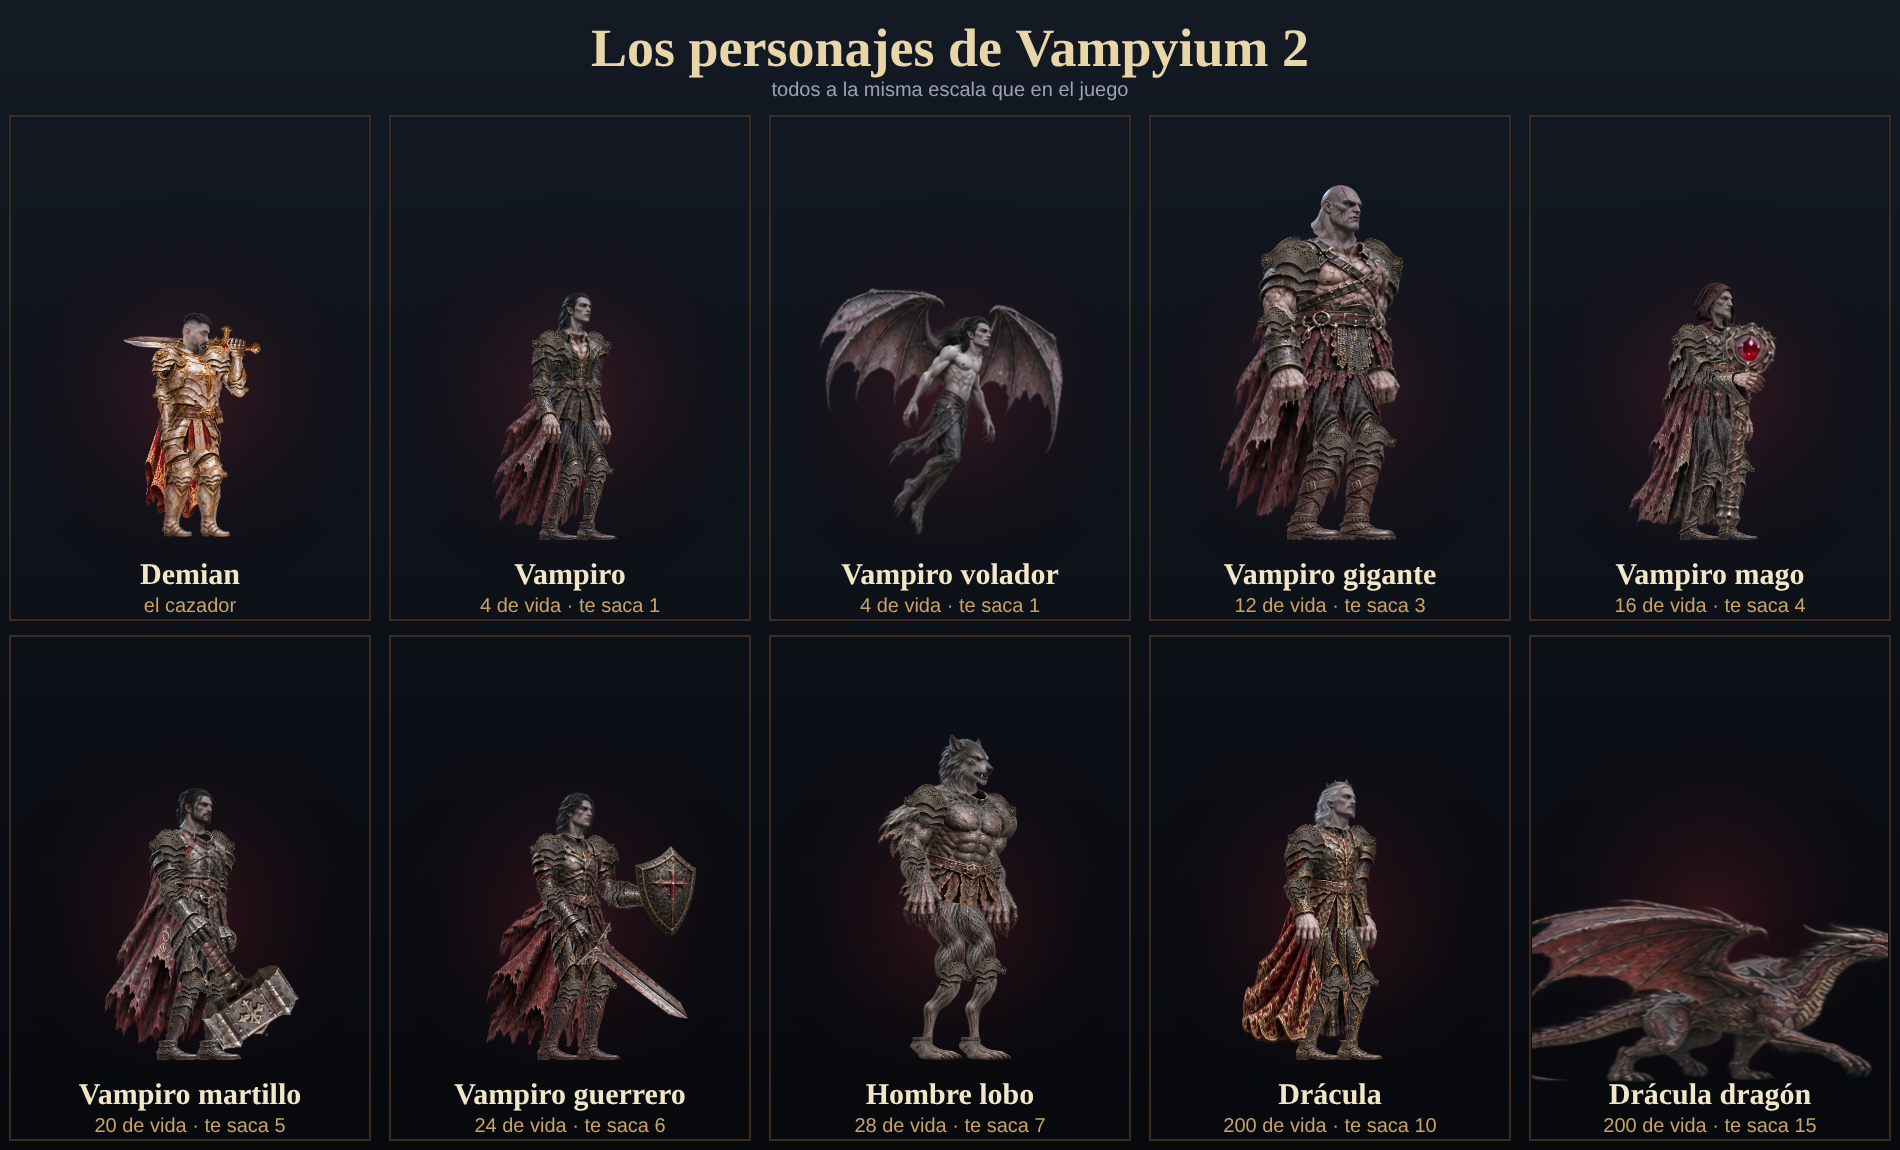
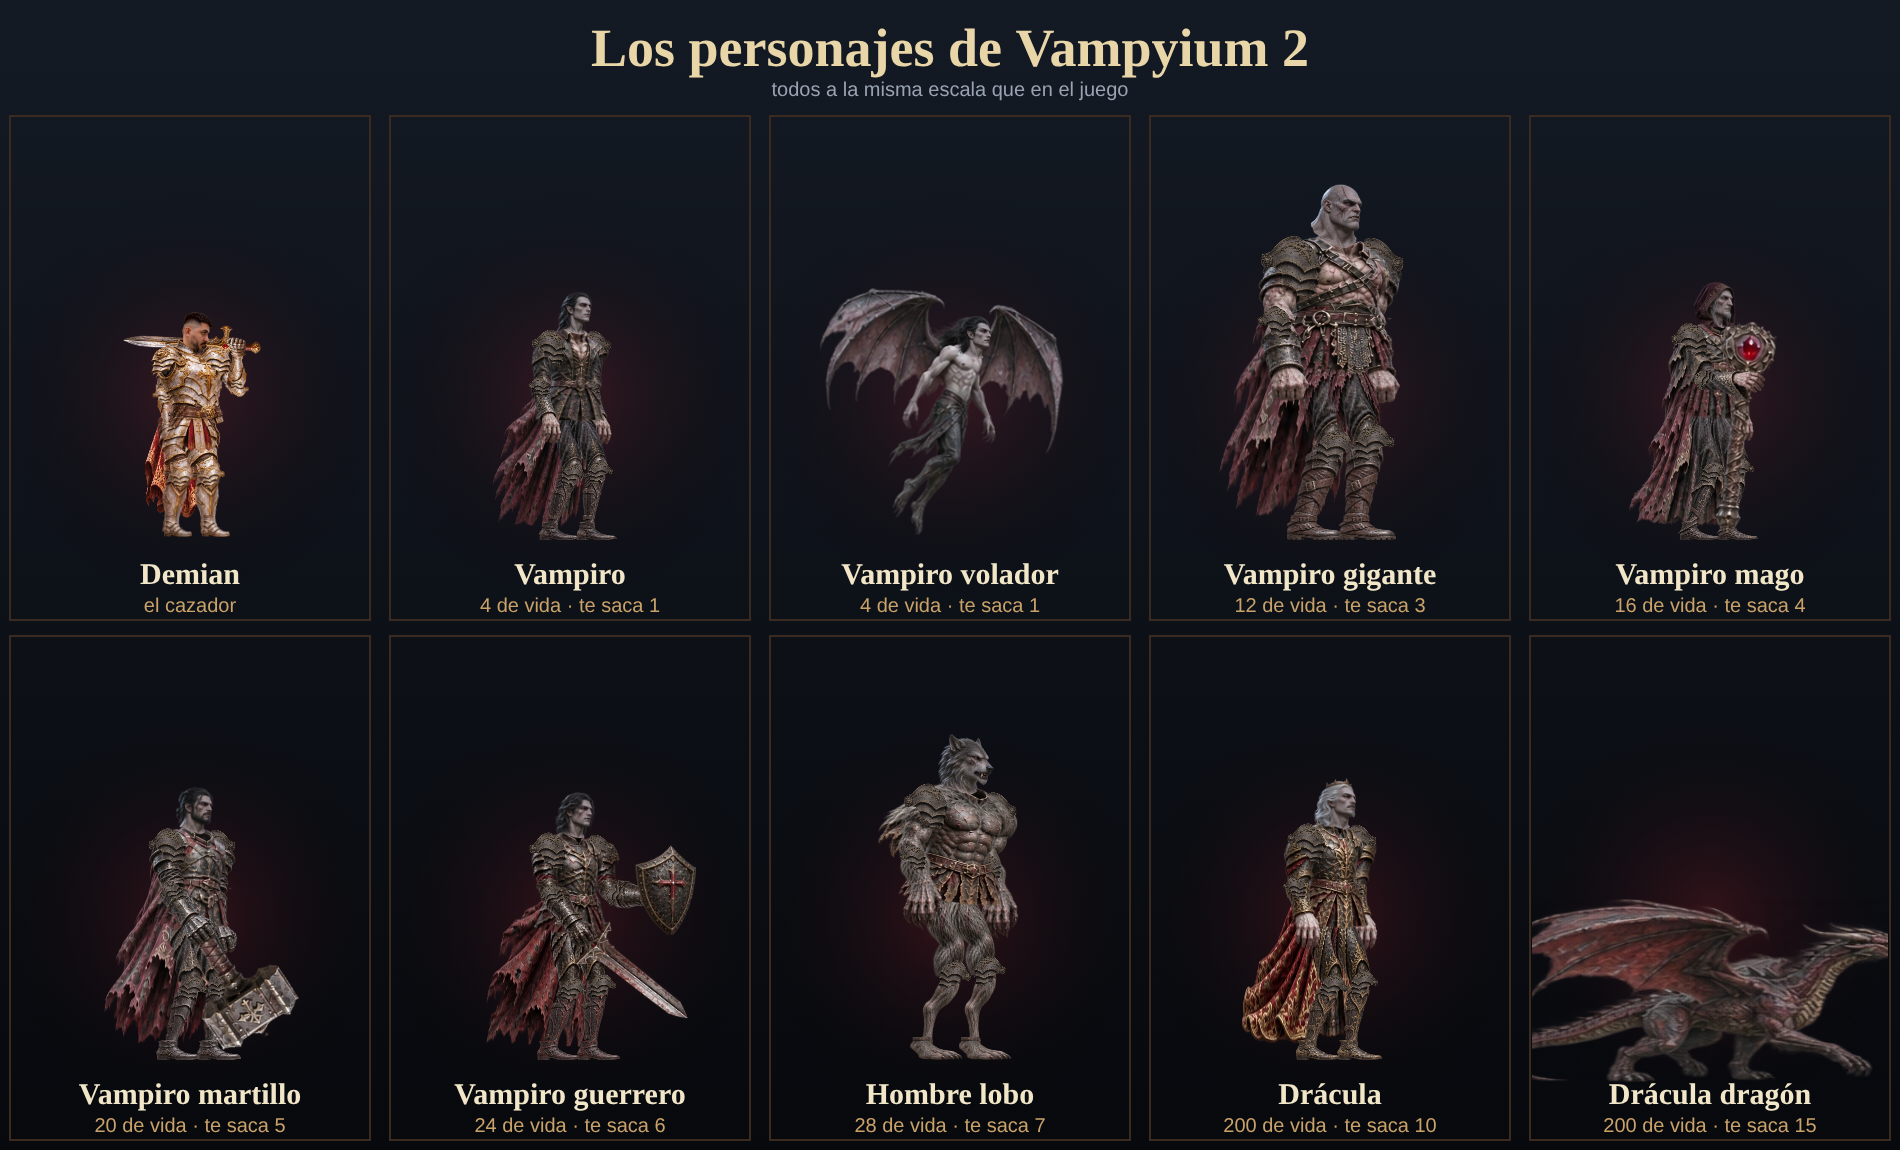
Vampyium 2: parados sin mover las rodillas, sin temblores, saltos mirando adelante y cara de Demian pintada
- Parados: la cadera queda fija (antes respiraba con la cadera y las rodillas iban y venían)
- Vampiros: darse vuelta lleva un instante y cerca del cazador mantienen el lado (no tiemblan); el dibujo no alterna parado/caminando a cada cuadro
- En el aire los vampiros miran siempre hacia donde saltan
- Cara de Demian con el color y el contraste del arte pintado del juego

Claude-Session: https://claude.ai/code/session_01WPvz5PaYJXGqapsEakQuyK

diff --git a/src/features/games/vampyium2.ts b/src/features/games/vampyium2.ts
@@ -128,6 +128,8 @@ export const BODY = Object.fromEntries(Object.entries(BODY0).map(([k, b]) => [k,
 const SPECIALS: VampKind[] = ['giant', 'mage', 'hammer', 'warrior', 'wolf'];
 // Qué vampiros salen en cada nivel: 1 normales y voladores; 2 + gigante; 3 + mago; 4 + martillo; 5 + guerrero; 6 + hombre lobo;
 // 7 a 9 todos (con el hombre lobo); 10 solo Drácula.
+// Darse vuelta lleva un instante: así no cambia de lado varias veces por segundo (se veía como un temblor).
+function turn(v: Vamp, to: 1 | -1) { if (to !== v.face && (v.turnT ?? 0) <= 0) { v.face = to; v.turnT = 0.28; } }
 export function rosterOf(level: number): VampKind[] {
   if (level >= 10) return ['dracula'];
   return ['walker', 'flyer', ...SPECIALS.slice(0, level >= 7 ? 5 : level - 1)]; // (7 a 9: todos, con el hombre lobo)
@@ -142,6 +144,8 @@ export interface Vamp {
   // los fuertes aguantan varios golpes (flash: el destello blanco del golpe)
   hurtT?: number; // golpeado por una trampa: sangra y sale despedido, pero no muere
   landT?: number;
+  turnT?: number; // (un instante después de darse vuelta, no se vuelve a dar vuelta)
+  walking?: boolean; // se dibuja caminando de perfil (con margen: no alterna parado/caminando a cada cuadro)
   special?: number; // Drácula y el dragón: cuenta para el próximo ataque especial
   frozen?: number; chill?: number; // congelado por la armadura de hielo (se rompe cuando llega a 0); chill: el frío en Drácula y el dragón
   nav?: Nav; stuckT?: number; bestD?: number; unstuck?: number; waitT?: number; braveT?: number; // cómo se mueve por el nivel (ver navigate)
@@ -771,7 +775,7 @@ function updateWalker(g: Game, v: Vamp, dt: number) {
     }
     if (v.t >= atk.dur) { v.state = 'walk'; v.cool = atk.rest + r() * 0.5; }
   } else if (v.state === 'cast') { // el mago levanta el báculo y tira una bola de fuego; Drácula larga murciélagos
-    v.vx *= Math.max(0, 1 - dt * 10); v.t += dt; v.face = dx >= 0 ? 1 : -1;
+    v.vx *= Math.max(0, 1 - dt * 10); v.t += dt; if (Math.abs(dx) > 0.45) turn(v, dx >= 0 ? 1 : -1);
     // El mago deja el báculo quieto y APUNTA con la otra mano a Demian: la bola sale de esa mano.
     const k = MAGE_HAND.k * BODY.mage.k;
     if (v.kind === 'mage') v.aim = Math.max(-0.9, Math.min(0.9, Math.atan2(p.y + 1 - (v.y + MAGE_HAND.sy * k), Math.abs(dx) || 0.01)));
@@ -782,27 +786,31 @@ function updateWalker(g: Game, v: Vamp, dt: number) {
     }
     if (v.t >= 0.95) { v.state = 'walk'; v.cool = (v.kind === 'mage' ? 2.4 : 1) + r() * 0.8; }
   } else if (v.state === 'zap') { // Drácula levanta los brazos y llama tres rayos rojos: donde está el cazador y a los costados
-    v.vx *= Math.max(0, 1 - dt * 10); v.t += dt; v.face = dx >= 0 ? 1 : -1;
+    v.vx *= Math.max(0, 1 - dt * 10); v.t += dt; if (Math.abs(dx) > 0.45) turn(v, dx >= 0 ? 1 : -1);
     if (v.t >= 0.4 && !v.hit) {
       v.hit = true;
       [0, -2.3, 2.3].forEach((o, i) => { const [x, q] = standAt(Math.max(0.8, Math.min(W - 0.8, p.x + o + p.vx * 0.25)), p.y); g.zaps.push({ x, y: q.y, t: -i * 0.22 }); });
     }
     if (v.t >= 1.1) { v.state = 'walk'; v.cool = 0.8 + r() * 0.5; }
   } else if (v.state === 'leap') { // el hombre lobo salta encima del cazador
-    v.t += dt;
+    v.t += dt; if (Math.abs(v.vx) > 0.6) v.face = Math.sign(v.vx) as 1 | -1; // mira hacia donde salta
     const [x1, x2, y1, y2] = vampBox(v);
     if (!v.hit && x2 > p.x - 0.3 && x1 < p.x + 0.3 && y1 < p.y + PLAYER_H && y2 > p.y) { v.hit = true; hurt(g, v.x, DAMAGE.wolf); }
     if (v.onGround && v.t > 0.2) { v.state = 'walk'; v.cool = 0.5 + r() * 0.4; v.vx *= 0.3; }
   } else {
     // Hacia dónde ir: si el cazador está en otro piso, el plan dice a qué plataforma saltar (o bajar) y desde dónde.
     const nav = navigate(g, v);
-    let dir = nav.kind === 'same' ? (Math.sign(dx) || v.face) : (Math.sign(nav.tx - v.x) || v.face);
+    // Justo encima o debajo del cazador no cambia de lado a cada cuadro (eso era el temblor): mantiene hacia dónde mira.
+    const close = nav.kind === 'same' && Math.abs(dx) < 0.45;
+    let dir = nav.kind === 'same' ? (close ? v.face : Math.sign(dx) || v.face) : (Math.sign(nav.tx - v.x) || v.face);
     if (scared) dir = -Math.sign(dx) || 1; // el ajo: se escapa
     // el mago se queda lejos (a 5 o 6 metros) para tirar sus bolas de fuego
     let want = 1;
     if (v.kind === 'mage' && !scared && nav.kind === 'same') { const d = Math.abs(dx); want = d < 4.2 ? -1 : d < 6.5 ? 0 : 1; }
     if (nav.kind !== 'same' && !scared && Math.abs(nav.tx - v.x) < 0.3) want = 0; // llegó al lugar del salto
-    v.face = (nav.kind === 'same' || scared ? (scared ? dir : Math.sign(dx) || v.face) : dir) as 1 | -1;
+    if (close && !scared) want = 0;
+    if (v.onGround) turn(v, dir as 1 | -1);
+    else if (Math.abs(v.vx) > 0.6) v.face = Math.sign(v.vx) as 1 | -1; // en el aire mira siempre hacia donde salta
     let target = dir * v.speed * (scared ? 1.3 : 1) * want;
     if (v.onGround) {
       // Las trampas: mira un poco adelante; si va a lastimarlo, las salta (las bajas) o espera a que pasen.
@@ -822,7 +830,7 @@ function updateWalker(g: Game, v: Vamp, dt: number) {
       } else v.waitT = 0;
       if (v.onGround) {
         v.vx += (target - v.vx) * Math.min(1, dt * 8);
-        if (Math.abs(v.vx) > 1 && Math.sign(v.vx) !== v.face) v.face = Math.sign(v.vx) as 1 | -1; // si se aleja, se da vuelta y camina para ese lado (no camina para atrás)
+        if (Math.abs(v.vx) > 1 && Math.sign(v.vx) !== v.face) turn(v, Math.sign(v.vx) as 1 | -1); // si se aleja, se da vuelta y camina para ese lado (no camina para atrás)
         v.walkT += dt * v.vx * v.face; // (si retrocede un poquito, los pasos también van para atrás: los pies no patinan)
         const s = v.surface, mdir = Math.sign(v.vx) || dir, ahead = v.x + mdir * 0.7;
         // ¿Se termina el piso adelante? Si el plan es cruzar el hueco, salta; si no, espera en el borde (nunca se cae al vacío).
@@ -866,7 +874,8 @@ function updateWalker(g: Game, v: Vamp, dt: number) {
   }
   const was = v.onGround;
   moveBody(v, dt, VAMP_W / 2, -1.2, W + 1.2);
-  v.landT = Math.max(0, (v.landT ?? 0) - dt);
+  v.landT = Math.max(0, (v.landT ?? 0) - dt); v.turnT = Math.max(0, (v.turnT ?? 0) - dt);
+  v.walking = v.onGround && Math.abs(v.vx) > (v.walking ? 0.15 : 0.7);
   if (!was && v.onGround) { v.walkT = 0; v.landT = .14; }
   // Si cae en un hueco, salta y sale (saltan bien: nunca se caen al vacío).
   if (v.y < GROUND_Y - 0.9 && v.vy < 0) {

diff --git a/src/features/games/vampyium2Chars.ts b/src/features/games/vampyium2Chars.ts
@@ -54,14 +54,14 @@ function hunterPose(p: Player, t: number, held: Weapon): Pose {
   const shoulderSword = held === 'sword' && at < 0;
   if ((p.jumpPrep ?? 0) > 0) {
     const k = Math.sin((1 - (p.jumpPrep ?? 0) / .09) * Math.PI / 2);
-    if (shoulderSword) return { ...demianSwordPose({ ...p, vx: 0 }, t), feet: undefined, bob: 0,
+    if (shoulderSword) return { ...demianSwordPose({ ...p, vx: 0 }), feet: undefined, bob: 0,
       lean: .06 + k * .10, crouch: .10 + k * .44,
       arms: [[-.12 - k * .35, .22 + k * .2], [.70, 2.50]] };
     return { bob: 0, lean: .12 + k * .1, crouch: .12 + k * .58, head: -.06, legs: [[-.4, .9], [.45, 1]], arms: [[-.3 - k * .4, .65], [.4, 1.5]], blade: 1.05 };
   }
   if (!p.onGround && (p.takeoffT ?? 0) > 0 && at < 0) {
     const k = 1 - (p.takeoffT ?? 0) / .12;
-    if (shoulderSword) return { ...demianSwordPose(p, t), feet: undefined, bob: 0,
+    if (shoulderSword) return { ...demianSwordPose(p), feet: undefined, bob: 0,
       hipOffset: [0, 0], lean: .12 - k * .04,
       legs: [[-.12 - k * .16, .12 + k * .65], [.14 + k * .28, .12 + k * .9]],
       arms: [[-.32 + k * .58, .40], [.70, 2.50]] };
@@ -70,12 +70,12 @@ function hunterPose(p: Player, t: number, held: Weapon): Pose {
   if (p.hurtT > 0) { const w = t * 30; return { bob: 0, lean: -0.35 + s(w) * 0.06, crouch: 0.1, head: -0.3, legs: [[-0.45, 0.5], [0.25, 0.7]], arms: [[-0.6, 0.9], [-0.9, 0.8]], blade: 0.6 }; }
   // C (turn) and V (thrust): the sword stays out horizontally, in a wide, low stance, with real bone lengths.
   if (p.special && (p.special.kind === 'whirl' || p.special.kind === 'dash') && held === 'sword') {
-    const thrust = demianSwordPose({ ...p, vx: 0, onGround: true, attackT: .12 }, t);
+    const thrust = demianSwordPose({ ...p, vx: 0, onGround: true, attackT: .12 });
     return p.special.kind === 'dash'
       ? { ...thrust, lean: .34, hipOffset: [.16, .16], feet: [[-.62, -.06], [.5, -.06]] }
       : { ...thrust, lean: .05, hipOffset: [0, .1], feet: [[-.4, -.06], [.36, -.06]] };
   }
-  if (p.onGround && !p.special && (at >= 0 ? p.attackWeapon === 'sword' : held === 'sword')) return demianSwordPose(p, t);
+  if (p.onGround && !p.special && (at >= 0 ? p.attackWeapon === 'sword' : held === 'sword')) return demianSwordPose(p);
   if (at >= 0) {
     if (AIM_W.includes(p.attackWeapon)) { // el disparo: retroceso
       const k = Math.max(0, 1 - at / 0.2);
@@ -97,7 +97,7 @@ function hunterPose(p: Player, t: number, held: Weapon): Pose {
   if (!p.onGround) {
     if (shoulderSword) {
       const tuck = Math.max(0, Math.min(1, (p.vy + 5) / 12));
-      return { ...demianSwordPose(p, t), feet: undefined, hipOffset: [0, 0], bob: 0,
+      return { ...demianSwordPose(p), feet: undefined, hipOffset: [0, 0], bob: 0,
         lean: .06, legs: [[-.20, .22 + tuck * .55], [.22 + tuck * .20, .28 + tuck * .72]],
         arms: [[.24 - tuck * .16, .35], [.70, 2.50]] };
     }
@@ -120,7 +120,8 @@ function hunterPose(p: Player, t: number, held: Weapon): Pose {
       legs, arms: armsFor([walkingArm(g, 0, .34, .32), walkingArm(g, 1, .34, .32)]), blade: bladeFor(1.45 - 0.45 * k) };
   }
   const br = s(t * 3.2); // guardia: el puño con la espada adelante, la hoja para arriba (como la cruz de la referencia)
-  return { bob: br * .009, lean: .10, crouch: .24 + br * .012, head: .01, legs: [[-.45, .75], [.45, .8]], arms: armsFor([[-.95 + br * .018, 1.65], [.90 - br * .018, .65]]), blade: bladeFor(1.55) };
+  return { bob: 0, lean: .10, crouch: .24, // (standing: hips still, the knees do not pump)
+    head: .01, legs: [[-.45, .75], [.45, .8]], arms: armsFor([[-.95 + br * .018, 1.65], [.90 - br * .018, .65]]), blade: bladeFor(1.55) };
 }
 export function walkerPose(v: Vamp, t: number): Pose {
   const s = Math.sin;

diff --git a/src/features/games/vampyium2Locomotion.test.ts b/src/features/games/vampyium2Locomotion.test.ts
@@ -65,7 +65,7 @@ describe('Demian reference poses', () => {
     const p = { ...newPlayer(), onGround: true, vx: 3 };
     const angles: number[][] = [[], []];
     for (let i = 0; i < 80; i++) {
-      const walkT = i * .025, q = demianSwordPose({ ...p, walkT }, i * .1);
+      const walkT = i * .025, q = demianSwordPose({ ...p, walkT });
       const c = humanWalk(walkT * 7 / 2.4, 3, .88 * VAMP_VISUAL_SCALE, true);
       expect(q.weaponBehind).toBe(false);
       for (const side of [0, 1]) {
@@ -116,15 +116,32 @@ describe('Demian reference poses', () => {
   });
   it('carries the sword behind the head, holds a horizontal thrust in the damage window and returns continuously', () => {
     const p = newPlayer(); p.onGround = true; p.vx = 0;
-    const idle = demianSwordPose(p, 0);
-    const weapon = (at: number) => { const q = demianSwordPose({ ...p, attackT: at }, 0); return q.arms[1][0] + q.arms[1][1] + q.blade; };
+    const idle = demianSwordPose(p);
+    const weapon = (at: number) => { const q = demianSwordPose({ ...p, attackT: at }); return q.arms[1][0] + q.arms[1][1] + q.blade; };
     expect(idle.weaponBehind).toBe(true);
     expect(Math.cos(Math.PI / 2 - weapon(-1))).toBeLessThan(-.99);
     expect(Math.cos(Math.PI / 2 - weapon(.04))).toBeGreaterThan(.9);
     for (const at of [.05, .09, .13, .20]) expect(Math.cos(Math.PI / 2 - weapon(at))).toBeCloseTo(1, 8);
-    expect(demianSwordPose({ ...p, attackT: .13 }, 0).feet![0][0]).toBeLessThan(idle.feet![0][0]);
+    expect(demianSwordPose({ ...p, attackT: .13 }).feet![0][0]).toBeLessThan(idle.feet![0][0]);
     expect(weapon(.30)).toBeCloseTo(weapon(-1), 8);
     expect(weapon(.00001)).toBeCloseTo(weapon(-1), 5);
-    expect(demianSwordPose({ ...p, vx: 3 }, 0).feet).toBeUndefined();
+    expect(demianSwordPose({ ...p, vx: 3 }).feet).toBeUndefined();
+  });
+});
+
+describe('standing still means still', () => {
+  it('Demian parado: la cadera no sube ni baja (las rodillas no se mueven)', () => {
+    const p = newPlayer();
+    expect(demianSwordPose(p).bob).toBe(0);
+    expect(demianSwordPose(p).hipOffset?.[1] ?? 0).toBe(0);
+  });
+  it('un vampiro parado tiene la cadera y las rodillas fijas en el tiempo', () => {
+    const g = newGame(1, 1);
+    for (const kind of ['walker', 'giant', 'warrior', 'wolf'] as VampKind[]) {
+      const v = makeVamp(g, kind, { vx: 0, onGround: true, state: 'walk' });
+      const a = vampireRigPose(v, 1, 0.3), b = vampireRigPose(v, 1, 1.7);
+      expect(b.hip[1]).toBeCloseTo(a.hip[1], 6);
+      expect(b.legs[0].knee[0]).toBeCloseTo(a.legs[0].knee[0], 6); expect(b.legs[1].knee[1]).toBeCloseTo(a.legs[1].knee[1], 6);
+    }
   });
 });

diff --git a/src/features/games/vampyium2Demian.ts b/src/features/games/vampyium2Demian.ts
@@ -5,13 +5,12 @@ import { VAMP_VISUAL_SCALE } from './vampyium2Motion';
 
 const smooth = (x: number) => { const k = Math.max(0, Math.min(1, x)); return k * k * (3 - 2 * k); };
 const mix = (a: number, b: number, t: number) => a + (b - a) * t;
-export function demianSwordPose(p: Player, time: number): Pose {
+export function demianSwordPose(p: Player): Pose {
   const active = p.attackT >= 0;
   // Shoulder carry -> lift -> horizontal thrust -> visible hold -> return to the shoulder.
   const extension = active ? smooth(p.attackT / .05) * (1 - smooth((p.attackT - .21) / .09)) : 0;
   const running = p.onGround && Math.abs(p.vx) > .15;
   const cycle = humanWalk(p.walkT * 7 / 2.4, Math.abs(p.vx), .88 * VAMP_VISUAL_SCALE, true);
-  const breath = Math.sin(time * 2.8) * .009;
   const freeArm = running && !active ? walkingArm(cycle, 0, .34, .32) : [-.06, .16];
   const frontA = mix(.70, 1.40, extension), frontB = mix(2.50, .18, extension);
   const lowered = running && !active ? cycle.k : 0;
@@ -21,7 +20,7 @@ export function demianSwordPose(p: Player, time: number): Pose {
   const swordAngle = mix(mix(-Math.PI / 2 - .06, -Math.PI * 1.5, extension), .75, lowered);
   const feet: [Pt, Pt] = [[mix(-.15, -.48, extension), -.06], [mix(.17, .44, extension), -.06]]; // standing straight, then the lunge
   return {
-    bob: running && !active ? cycle.bob : breath,
+    bob: running && !active ? cycle.bob : 0, // standing still: the hips do not move, so the knees stay put
     lean: mix(.015 + (running ? cycle.sway * .012 : 0), .24, extension), crouch: 0, head: -.08 * extension,
     hipOffset: [extension * .13, mix(0, .12, extension)],
     feet: running || !p.onGround ? undefined : feet,

diff --git a/src/features/games/vampyium2.test.ts b/src/features/games/vampyium2.test.ts
@@ -717,6 +717,17 @@ describe('Vampyium2: los ataques especiales de Demian', () => {
     expect(orb!.x).toBeLessThan(m.x - MAGE_HAND.sx * k); // adelante, hacia Demian
     expect(orb!.vx).toBeLessThan(0);
   });
+  it('justo debajo del cazador el vampiro no cambia de lado a cada cuadro (no tiembla)', () => {
+    const g = quiet(); const p = g.player;
+    const v = walker(g, p.x - 0.1, { cool: 99 }); let flips = 0, last = v.face;
+    for (let i = 0; i < 90; i++) { p.x += (i % 2 ? 0.2 : -0.2); step(g, idle(), 1 / 60); if (v.face !== last) { flips++; last = v.face; } }
+    expect(flips).toBeLessThanOrEqual(4);
+  });
+  it('en el aire el vampiro mira siempre hacia donde salta', () => {
+    const g = quiet(); const p = g.player;
+    const v = walker(g, p.x + 3, {}); v.onGround = false; v.surface = null; v.y += 2; v.vy = 8; v.vx = 5; v.face = 1;
+    for (let i = 0; i < 20; i++) { step(g, idle(), 1 / 60); if (!v.onGround && Math.abs(v.vx) > 0.6) expect(v.face).toBe(Math.sign(v.vx)); }
+  });
   it('sin combinación, Espacio es el tajo de siempre', () => {
     const g = quiet(); pressAttack(g);
     expect(takeEvents(g).map(e => e.type)).toContain('slash');

diff --git a/src/features/games/vampyium2Motion.ts b/src/features/games/vampyium2Motion.ts
@@ -42,7 +42,7 @@ export function vampireRigPose(v: Vamp, modelScale: number, time: number) {
   const engaged = action.active ? ease(Math.min(1, (windup + extension) * 1.6)) : 0;
   const weightShift = -windup * st.shift * .55 + extension * st.shift;
   const crouch = motion.prepare * .15 + (v.landT ?? 0) / .14 * .10 + windup * st.load + extension * st.drive;
-  const hip: Pt = [g.sway * .009 + weightShift, -.965 + g.bob + crouch + breath];
+  const hip: Pt = [g.sway * .009 + weightShift, -.965 + g.bob + crouch]; // (breathing moves the chest, never the hips: standing knees stay still)
   const lean = (v.kind === 'wolf' ? .12 : .025) + motion.prepare * .12
     + (motion.airborne ? .08 : 0) - windup * st.back + extension * st.lunge + g.sway * .012;
   const neck: Pt = [hip[0] + Math.sin(lean) * .62, hip[1] - Math.cos(lean) * .62];

diff --git a/src/features/games/vampyium2Sprites.ts b/src/features/games/vampyium2Sprites.ts
@@ -350,7 +350,7 @@ function drawArticulatedEnemy(ctx: CanvasRenderingContext2D, v: Vamp, t: number)
   const { cycle: g, prepare, airborne, action, breath, hip, neck, lean, legs } = vampireRigPose(v, .88 * VAMP_VISUAL_SCALE, t);
   const { windup, extension } = action;
   const heavy = v.kind === 'giant', wolf = v.kind === 'wolf';
-  const walkProfile = !airborne && !action.active && Math.abs(v.vx) > .15;
+  const walkProfile = !airborne && !action.active && (v.walking ?? Math.abs(v.vx) > .15);
   const paint = (id: number, center: Pt, w: number, h: number, angle = 0, cropLeft = 0) => {
     ctx.save(); ctx.translate(...center); ctx.rotate(angle);
     drawAsset(ctx, atlas, base + id, -w / 2, -h / 2, w, h, undefined, cropLeft); ctx.restore();
